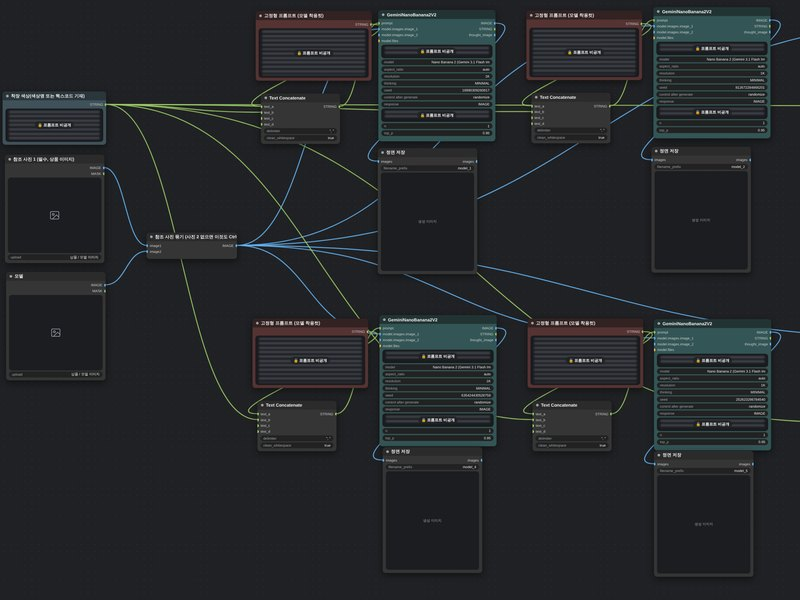
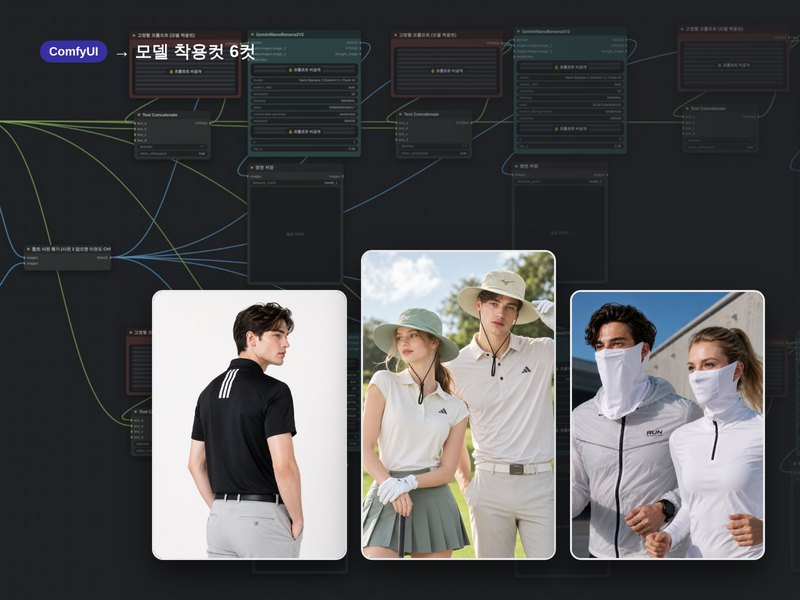
Rename to AI 이미지 자동화 워크플로우, show it on the main page, result-image thumbnails
- Work tab and section renamed to "AI 이미지 자동화 워크플로우"
- Workflow thumbnails now show three generated golf-apparel / product
  images over the dimmed node graph (prompts still hidden)
- Main Selected Projects gets a sixth card linking to work.html#flow;
  six cards in one row (swipe row below 1200px)

Claude-Session: https://claude.ai/code/session_01BixZ5kMSwcUDHqdv3tGPjg

diff --git a/work.html b/work.html
@@ -42,7 +42,7 @@
     <span class="sep" aria-hidden="true">/</span>
     <button class="filter" type="button" data-filter="ai" aria-pressed="false">AI 이미지<sup>63</sup></button>
     <span class="sep" aria-hidden="true">/</span>
-    <button class="filter" type="button" data-filter="flow" aria-pressed="false">AI 워크플로우<sup>3</sup></button>
+    <button class="filter" type="button" data-filter="flow" aria-pressed="false">AI 이미지 자동화 워크플로우<sup>3</sup></button>
   </div>
 </header>
 
@@ -102,11 +102,11 @@
   <div class="work-head">
     <div>
       <div class="eyebrow">AI Workflow</div>
-      <h2>AI 워크플로우 설계</h2>
+      <h2>AI 이미지 자동화 워크플로우</h2>
       <p>ComfyUI와 Gemini(Nano Banana 2)로 상품 사진 한 장에서 착용컷 · 디테일컷 · 화보컷을 자동으로 만드는 이미지 생성 파이프라인.<br>노드 구조는 그대로 보여드리고, 프롬프트는 비공개로 처리했습니다.</p>
     </div>
   </div>
-  <div class="subtabs" role="group" aria-label="AI 워크플로우 분류"></div>
+  <div class="subtabs" role="group" aria-label="AI 이미지 자동화 워크플로우 분류"></div>
   <p class="count" aria-live="polite"></p>
   <div class="gallery"></div>
 </section>

diff --git a/assets/css/style.css b/assets/css/style.css
@@ -273,7 +273,7 @@ h1,h2,h3,.h2,.hero h1,.work-hero h1,.work-head h2,.cta h2,.project h3{font-weigh
 @media (max-width:640px){.ring:last-child{grid-column:span 2}}
 
 /* Selected Projects: five compact cards in one row (horizontal scroll on narrow screens) */
-.proj-row{display:grid;grid-template-columns:repeat(5,minmax(0,1fr));gap:16px}
+.proj-row{display:grid;grid-template-columns:repeat(6,minmax(0,1fr));gap:14px}
 .pcard{display:flex;flex-direction:column;overflow:hidden;text-decoration:none;color:var(--ink);transition:transform .2s,box-shadow .2s}
 .pcard:hover{opacity:1;transform:translateY(-4px);box-shadow:0 16px 32px -20px rgba(18,20,43,.4)}
 .pcard .thumb{aspect-ratio:4/3;overflow:hidden;background:var(--line)}
@@ -285,7 +285,7 @@ h1,h2,h3,.h2,.hero h1,.work-hero h1,.work-head h2,.cta h2,.project h3{font-weigh
 .pmeta .works{margin-left:0}
 .pmeta .go{font-weight:800;color:var(--primary);transition:transform .2s}
 .pcard:hover .go{transform:translateX(4px)}
-@media (max-width:1100px){
+@media (max-width:1200px){
   .proj-row{display:flex;overflow-x:auto;scroll-snap-type:x mandatory;padding-bottom:8px;scrollbar-width:thin}
   .pcard{flex:0 0 240px;scroll-snap-align:start}
 }

diff --git a/index.html b/index.html
@@ -159,6 +159,10 @@
       <div class="thumb"><img src="images/ad/ad-001.jpg" alt="딜팡 커피 쿠폰 이벤트 광고" loading="lazy" style="object-position:top"></div>
       <div class="pbody"><h3>광고 디자인</h3><span class="pmeta"><span class="works">94 works</span><span class="go" aria-hidden="true">→</span></span></div>
     </a>
+    <a class="card pcard" href="work.html#flow">
+      <div class="thumb"><img src="images/flow/flow-002.jpg" alt="ComfyUI 착용컷·화보컷 자동 생성 워크플로우와 결과 이미지" loading="lazy" style="object-position:center"></div>
+      <div class="pbody"><h3>AI 이미지 자동화 워크플로우</h3><span class="pmeta"><span class="works">3 works</span><span class="go" aria-hidden="true">→</span></span></div>
+    </a>
   </div>
 </section>
 
